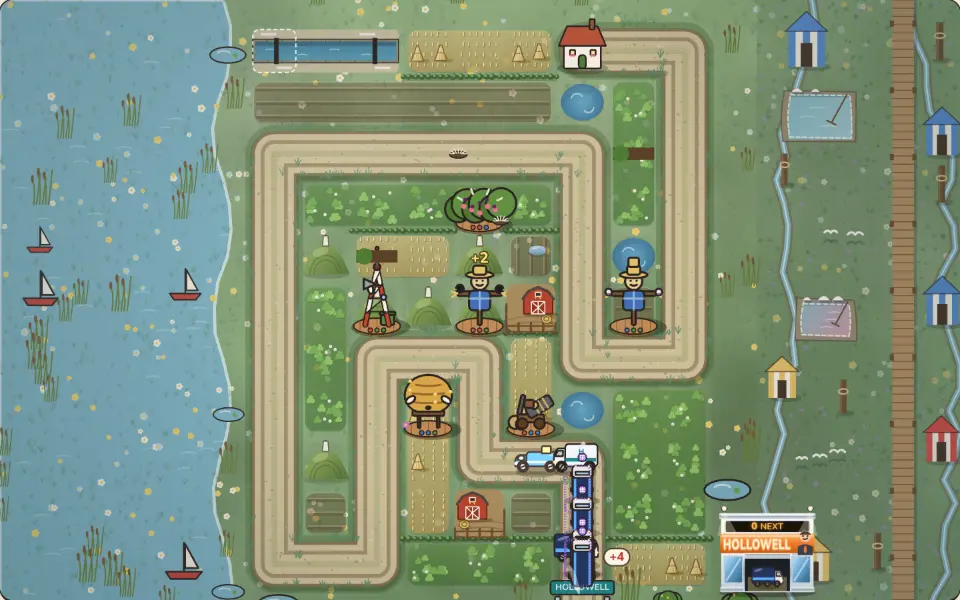
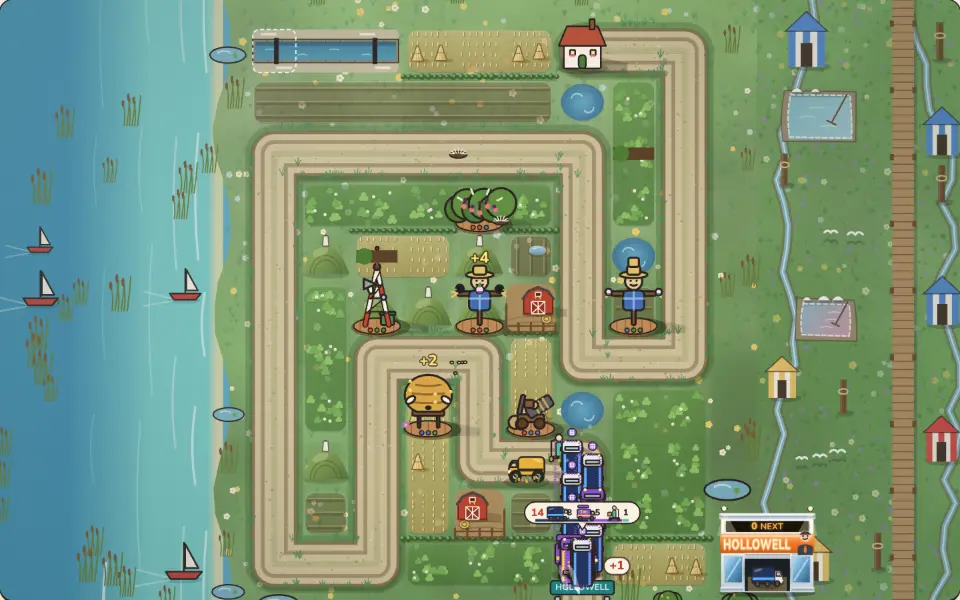
Hedgerow 2D item 370 slice 3: barns, the farmhouse and towers cast a short shadow away from the act's 3D sun; hedgerow key art re-shot
Claude-Session: https://claude.ai/code/session_01SimvMQ67s7DhyTBvHWazbK

diff --git a/games/hedgerow/src/sprites.ts b/games/hedgerow/src/sprites.ts
@@ -23,6 +23,59 @@ export function groundShadow(ctx: C, x: number, y: number, w: number, h = w * 0.
   ctx.fill();
 }
 
+/** Plan item 370: where the 2D sun throws shadows (screen x right, y down); `setShadowSun` follows the level's act. */
+let sun2d = { x: 0.94, y: 0.34 };
+export function setShadowSun(dir: { x: number; y: number }): void {
+  sun2d = dir;
+}
+export function shadowSun(): { x: number; y: number } {
+  return sun2d;
+}
+
+/**
+ * Plan item 370: a short cast shadow on the ground, matching the 3D key: the footprint (half-width `hw`, depth `d`,
+ * front edge at `base`) swept away from the sun by a length set by the object's `height`. The board is seen from a
+ * tilt, so the sweep's screen-y part is foreshortened. Drawn before the object, so the object covers its own foot.
+ */
+export function castShadow(ctx: C, x: number, base: number, hw: number, d: number, height: number, a = 0.2): void {
+  const len = height * 0.6;
+  const vx = sun2d.x * len;
+  const vy = sun2d.y * len * 0.55;
+  const pts: Array<[number, number]> = [];
+  for (const [px, py] of [
+    [x - hw, base - d],
+    [x + hw, base - d],
+    [x + hw, base],
+    [x - hw, base],
+  ] as const) {
+    pts.push([px, py], [px + vx, py + vy]);
+  }
+  const hull = convexHull(pts);
+  ctx.save();
+  ctx.fillStyle = `rgba(20,25,10,${a})`;
+  ctx.beginPath();
+  hull.forEach(([px, py], i) => (i ? ctx.lineTo(px, py) : ctx.moveTo(px, py)));
+  ctx.closePath();
+  ctx.fill();
+  ctx.restore();
+}
+
+function convexHull(pts: Array<[number, number]>): Array<[number, number]> {
+  const p = [...pts].sort((a, b) => a[0] - b[0] || a[1] - b[1]);
+  const cross = (o: [number, number], a: [number, number], b: [number, number]) => (a[0] - o[0]) * (b[1] - o[1]) - (a[1] - o[1]) * (b[0] - o[0]);
+  const lower: Array<[number, number]> = [];
+  for (const q of p) {
+    while (lower.length >= 2 && cross(lower[lower.length - 2]!, lower[lower.length - 1]!, q) <= 0) lower.pop();
+    lower.push(q);
+  }
+  const upper: Array<[number, number]> = [];
+  for (const q of p.reverse()) {
+    while (upper.length >= 2 && cross(upper[upper.length - 2]!, upper[upper.length - 1]!, q) <= 0) upper.pop();
+    upper.push(q);
+  }
+  return [...lower.slice(0, -1), ...upper.slice(0, -1)];
+}
+
 function blob(ctx: C, x: number, y: number, r: number, fill: string): void {
   ctx.fillStyle = fill;
   ctx.beginPath();
@@ -175,6 +228,8 @@ export function drawTower(ctx: C, look: TowerLook, x: number, y: number, s: numb
   const k = TIER_SCALE[tier - 1] ?? 1;
   // Plan item 322: a contact shadow cast away from the scene's light (top left), dark enough to read on any plot...
   groundShadow(ctx, x + s * 0.06, base + s * 0.02, s * (tier === 1 ? 0.4 : 0.48), s * (tier === 1 ? 0.13 : 0.16), 0.36);
+  // Plan item 370: and a short cast shadow away from the act's sun, like the 3D view's.
+  if (!look.bare && look.kind !== "pond") castShadow(ctx, x, base, s * 0.22 * k, s * 0.12 * k, s * (0.7 + tier * 0.15) * k, 0.16);
   // ...and a tier-1 tower stands on a footing of turned earth, so it reads as set on the plot, not printed on it
   // (a pond is the ground itself).
   if (tier === 1 && look.kind !== "pond" && !look.bare) drawFooting(ctx, x, base, s);
@@ -2378,6 +2433,7 @@ export function drawFarmhouse(ctx: C, x: number, y: number, s: number, t: number
   ctx.lineJoin = "round";
   const base = y + s * 0.34;
   groundShadow(ctx, x, base, s * 0.5, s * 0.12);
+  castShadow(ctx, x, base, s * 0.4, s * 0.2, s * 0.85, 0.24);
   // Walls and roof.
   rr(ctx, x - s * 0.36, base - s * 0.48, s * 0.72, s * 0.48, s * 0.02, "#f4ede1");
   ctx.fillStyle = "#b5523b";

diff --git a/tests/hedgerow-shadow2d.test.ts b/tests/hedgerow-shadow2d.test.ts
@@ -1,0 +1,69 @@
+import { describe, expect, it } from 'vitest'
+import { ACT_LIGHT } from '../games/hedgerow/src/render3d/palette'
+import { ACT_SUN_AZ, shadowDir } from '../games/hedgerow/src/sunlight'
+import { drawFarmhouse, drawTower, setShadowSun } from '../games/hedgerow/src/sprites'
+import { drawFarmyard } from '../games/hedgerow/src/render'
+
+// Plan item 370: the 2D field's barns, farmhouse and towers cast a short shadow away from the act's sun, the same
+// side as the 3D view's key light (item 360). The draw goes into a recording canvas; each cast-shadow polygon is
+// the fill in the shadow ink with four or more corners, and its centroid must lie downwind of the object.
+function recorder() {
+  const polys: Array<{ fill: string; pts: Array<[number, number]> }> = []
+  let path: Array<[number, number]> = []
+  const gradient = { addColorStop() {} }
+  const t: Record<string, unknown> = {}
+  const ctx = new Proxy(t, {
+    get(o, k) {
+      if (k in o) return o[k as string]
+      if (k === 'createLinearGradient' || k === 'createRadialGradient') return () => gradient
+      if (k === 'measureText') return () => ({ width: 10 })
+      if (k === 'beginPath') return () => void (path = [])
+      if (k === 'moveTo' || k === 'lineTo') return (x: number, y: number) => void path.push([x, y])
+      if (k === 'fill') return () => void polys.push({ fill: String(o.fillStyle), pts: path })
+      return () => {}
+    },
+    set(o, k, v) {
+      o[k as string] = v
+      return true
+    },
+  }) as unknown as CanvasRenderingContext2D
+  const shadows = () => polys.filter((p) => p.fill.startsWith('rgba(20,25,10,') && p.pts.length >= 4)
+  return { ctx, shadows }
+}
+const centroid = (pts: Array<[number, number]>) => pts.reduce((a, [x, y]) => [a[0] + x / pts.length, a[1] + y / pts.length], [0, 0])
+
+describe('Hedgerow 2D cast shadows (plan item 370)', () => {
+  it("each act's 2D sun is the 3D palette's", () => {
+    expect(ACT_SUN_AZ).toEqual(ACT_LIGHT.map((l) => l.sunAz))
+  })
+  for (const level of [5, 21, 34, 45, 65]) {
+    const dir = shadowDir(level)
+    const downwind = (pts: Array<[number, number]>, x: number, base: number) => {
+      const [cx, cy] = centroid(pts)
+      return (cx - x) * dir.x + (cy - base) * dir.y
+    }
+    it(`level ${level}: the farmhouse, a barn and a tower all cast toward (${dir.x.toFixed(2)}, ${dir.y.toFixed(2)})`, () => {
+      setShadowSun(dir)
+      const s = 60
+      const house = recorder()
+      drawFarmhouse(house.ctx, 100, 100, s, 0, 1)
+      expect(house.shadows().length).toBe(1)
+      expect(downwind(house.shadows()[0]!.pts, 100, 100 + s * 0.34 - s * 0.1)).toBeGreaterThan(s * 0.08)
+      const tower = recorder()
+      drawTower(tower.ctx, { kind: 'windmill', tier: 2, spec: null, fired: 9, dazed: false, still: true }, 100, 100, s, 0)
+      expect(tower.shadows().length).toBe(1)
+      expect(downwind(tower.shadows()[0]!.pts, 100, 100 + s * 0.3 - s * 0.06)).toBeGreaterThan(s * 0.08)
+      // The barn sits left or right in its yard by seed: compare its shadow under this sun and the opposite one.
+      const barnAt = (d: { x: number; y: number }) => {
+        setShadowSun(d)
+        const r = recorder()
+        drawFarmyard(r.ctx, 0, 0, s, 7)
+        expect(r.shadows().length).toBe(1)
+        return centroid(r.shadows()[0]!.pts)
+      }
+      const [ax, ay] = barnAt(dir)
+      const [bx, by] = barnAt({ x: -dir.x, y: -dir.y })
+      expect((ax - bx) * dir.x + (ay - by) * dir.y).toBeGreaterThan(s * 0.1)
+    })
+  }
+})

diff --git a/games/hedgerow/src/render.ts b/games/hedgerow/src/render.ts
@@ -61,7 +61,10 @@ import {
   enemyScale,
   star,
   drawThornPile,
+  castShadow,
+  setShadowSun,
 } from "./sprites";
+import { shadowDir } from "./sunlight";
 
 /** Plan item 322: a tower on the field is drawn this much over its cell's size. */
 const FIELD_TOWER = 1.2;
@@ -703,6 +706,8 @@ export class Renderer {
   draw(game: Game, dt: number): void {
     const { ctx } = this;
     const { cellSize: s, offX, offY } = this.view;
+    // Plan item 370: cast shadows fall away from this act's sun, as in the 3D view.
+    setShadowSun(shadowDir(game.level.id));
     this.clock += dt;
     this.cheer = Math.max(0, this.cheer - dt);
     this.gold.age += dt;
@@ -2265,7 +2270,7 @@ export { themeFor };
  * spilling a little into the grass round it: packed earth with wheel ruts, a post-and-rail fence along the yard's
  * open sides, a round bale, and the barn itself (a gambrel roof, a hay-loft door, the big doors braced in white).
  */
-function drawFarmyard(ctx: CanvasRenderingContext2D, x: number, y: number, w: number, seed: number): void {
+export function drawFarmyard(ctx: CanvasRenderingContext2D, x: number, y: number, w: number, seed: number): void {
   const r01 = rng(seed);
   const flip = r01() < 0.5;
   ctx.save();
@@ -2336,9 +2341,11 @@ function drawFarmyard(ctx: CanvasRenderingContext2D, x: number, y: number, w: nu
   const top = y + w * 0.12;
   const wallTop = top + w * 0.2;
   const base = y + w * 0.62;
+  // Plan item 370: the barn's cast shadow falls away from the act's sun, like the 3D view's; the contact shadow stays.
+  castShadow(ctx, left + bw / 2, base, bw / 2, w * 0.14, w * 0.5, 0.2);
   ctx.fillStyle = "rgba(40,28,10,0.28)";
   ctx.beginPath();
-  ctx.ellipse(left + bw * 0.6, base + w * 0.015, bw * 0.62, w * 0.05, 0, 0, Math.PI * 2);
+  ctx.ellipse(left + bw * 0.5, base + w * 0.015, bw * 0.56, w * 0.045, 0, 0, Math.PI * 2);
   ctx.fill();
   ctx.fillStyle = "#b5432f";
   ctx.strokeStyle = "#5a2418";

diff --git a/games/hedgerow/src/sunlight.ts b/games/hedgerow/src/sunlight.ts
@@ -1,0 +1,16 @@
+// Plan item 370: the 2D field's sun, so its cast shadows fall the same way as the 3D view's key light (item 360).
+// The azimuths are each act's `sunAz` in render3d/palette.ts (a test keeps the two equal); this module stays free of
+// three.js so the 2D renderer doesn't pull it in.
+
+/** Each act's sun azimuth in degrees, as in the 3D palette: the sun sits at (cos az, sin az) in (x, row) from the centre. */
+export const ACT_SUN_AZ: readonly number[] = [140, 120, 200, 230, 250, 170, 270, 210, 190, 300];
+
+export function sunAzFor(levelId: number): number {
+  return ACT_SUN_AZ[Math.min(ACT_SUN_AZ.length - 1, Math.max(0, Math.floor((levelId - 1) / 10)))]!;
+}
+
+/** The unit direction a shadow falls on the 2D board (screen x right, y down): away from the sun. */
+export function shadowDir(levelId: number): { x: number; y: number } {
+  const az = (sunAzFor(levelId) * Math.PI) / 180;
+  return { x: -Math.cos(az), y: -Math.sin(az) };
+}
